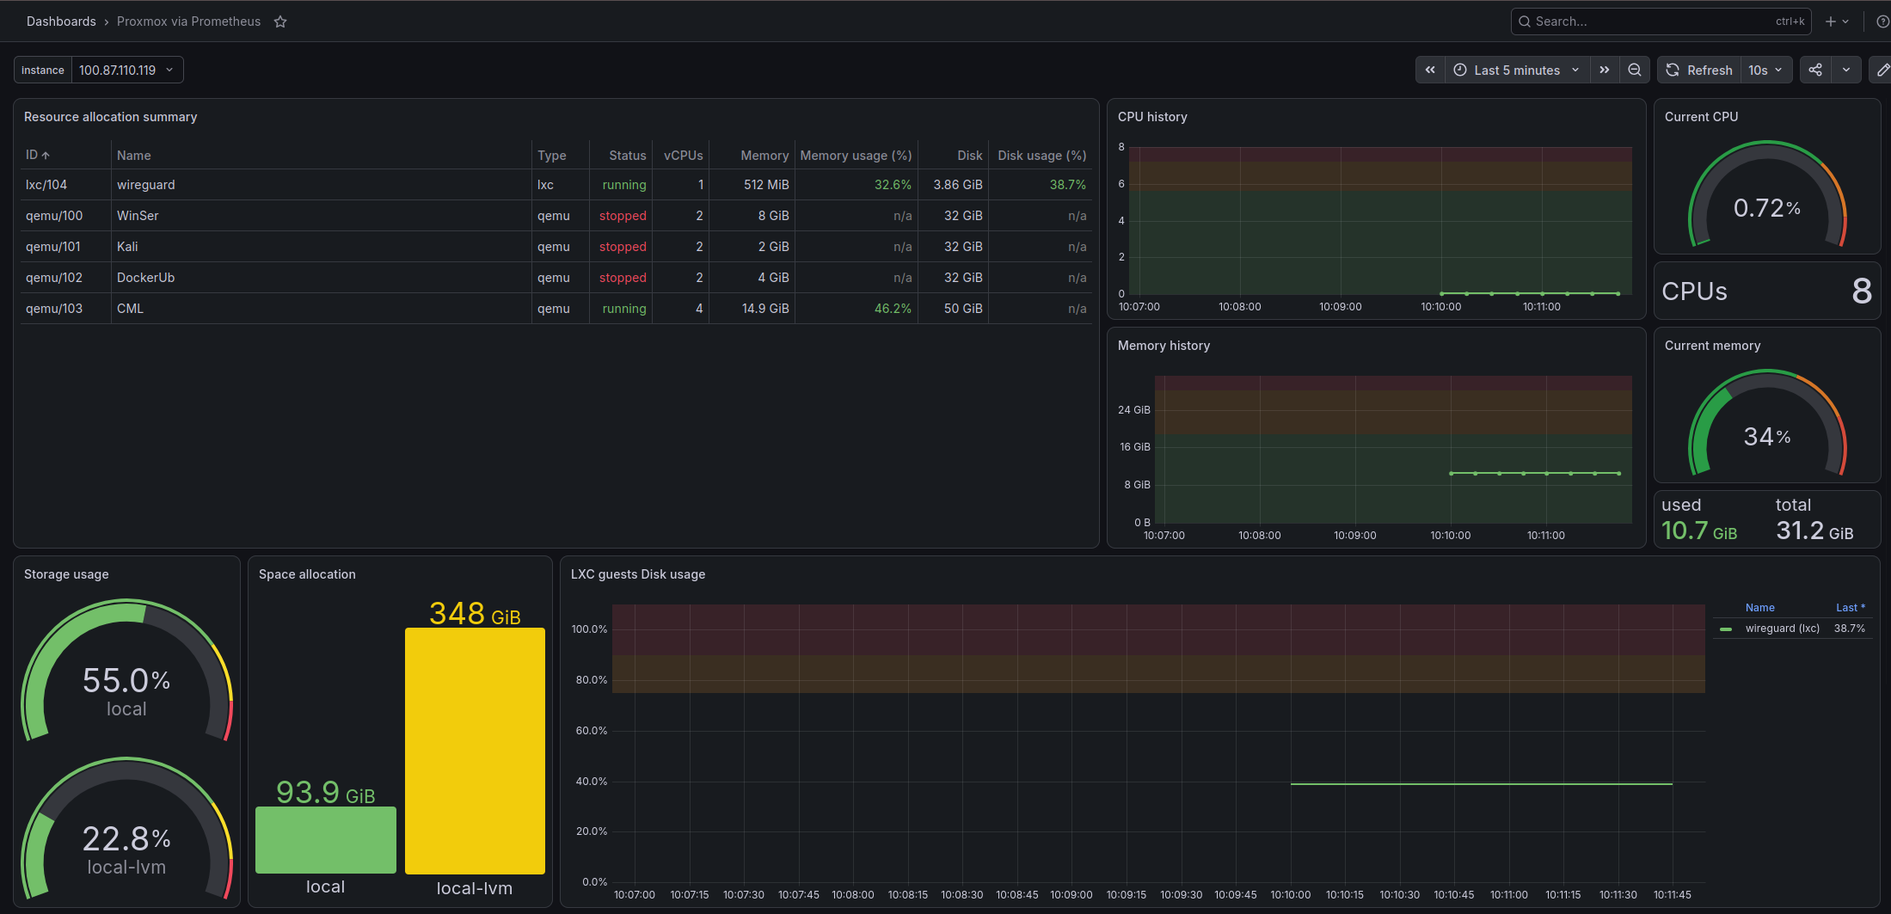
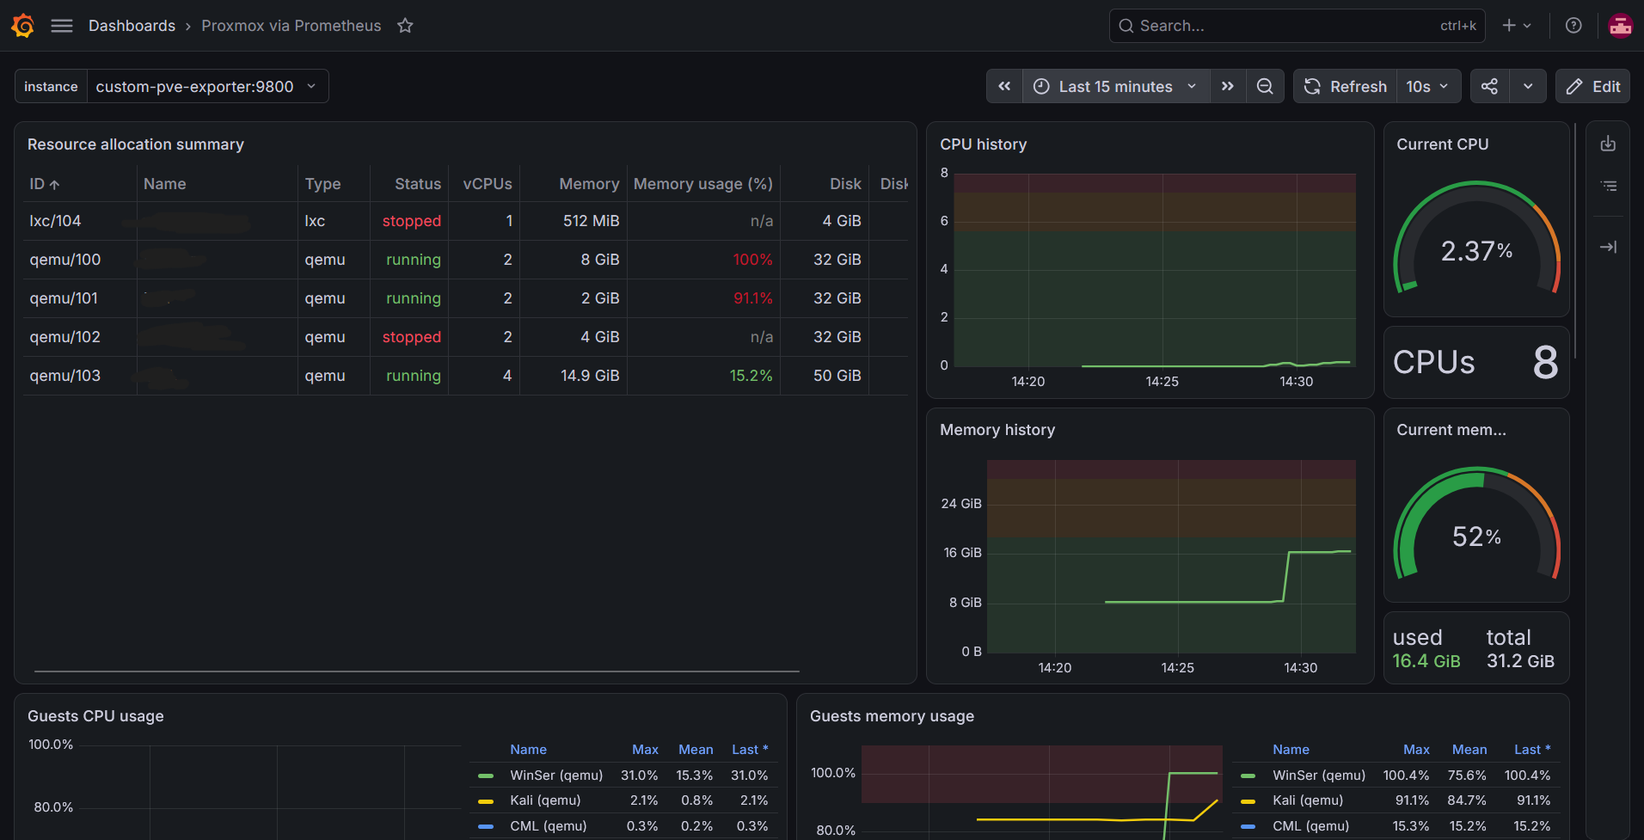
Added pve-exporter project to site, formatting changes, README update and images updates

diff --git a/projects/pve-exporter-api/index.html b/projects/pve-exporter-api/index.html
@@ -1,0 +1,262 @@
+<!DOCTYPE html>
+<html lang="en">
+
+<head>
+
+<!-- Basic -->
+<meta charset="utf-8">
+<meta http-equiv="X-UA-Compatible" content="IE=edge">
+
+<!-- Mobile Metas -->
+<meta name="viewport" content="width=device-width, initial-scale=1.0">
+
+<!-- Site Metas -->
+<title>Sean's Lab - Custom PVE Exporter and API</title>
+<meta name="description" content="Writing a custom Prometheus exporter for Proxmox VE and a custom API to query the metrics
+from the exporter to my website.">
+<meta name="author" content="Sean Widjaja">
+
+<!-- Site Icons -->
+<link rel="shortcut icon" href="/images/wifi-router.ico" type="image/x-icon" />
+<link rel="apple-touch-icon" href="/images/wifi-router.png">
+
+<!-- Bootstrap CSS -->
+<link rel="stylesheet" href="/css/bootstrap.min.css">
+<!-- Site CSS -->
+<link rel="stylesheet" href="/css/style.css">
+<!-- Responsive CSS -->
+<link rel="stylesheet" href="/css/responsive.css">
+<!-- Custom CSS -->
+<link rel="stylesheet" href="/css/custom.css">
+
+<script src="/js/modernizr.js"></script> <!-- Modernizr -->
+
+<!--[if lt IE 9]>
+    <script src="https://oss.maxcdn.com/libs/html5shiv/3.7.0/html5shiv.js"></script>
+    <script src="https://oss.maxcdn.com/libs/respond.js/1.4.2/respond.min.js"></script>
+    <![endif]-->
+
+</head>
+
+<body id="page-top">
+
+    <!-- LOADER -->
+    <div id="preloader">
+        <div class="loader">
+            <span></span>
+            <span></span>
+            <span></span>
+            <span></span>
+        </div>
+    </div><!-- end loader -->
+    <!-- END LOADER -->
+
+    <!-- Navigation -->
+    <nav class="navbar navbar-expand-lg navbar-dark fixed-top" id="mainNav">
+        <div class="container">
+            <a class="navbar-brand js-scroll-trigger" href="/">
+                <img class="img-fluid" src="/images/logo.png" alt="Sean's Lab home" />
+            </a>
+            <button class="navbar-toggler navbar-toggler-right" type="button" data-toggle="collapse"
+                data-target="#navbarResponsive" aria-controls="navbarResponsive" aria-expanded="false"
+                aria-label="Toggle navigation">
+                Menu
+                <i class="fa fa-bars"></i>
+            </button>
+            <div class="collapse navbar-collapse" id="navbarResponsive">
+                <ul class="navbar-nav text-uppercase ml-auto">
+                    <li class="nav-item">
+                        <a class="nav-link js-scroll-trigger" href="/">Home</a>
+                    </li>
+                    <li class="nav-item">
+                        <a class="nav-link js-scroll-trigger" href="/#about">About Me</a>
+                    </li>
+                    <li class="nav-item">
+                        <a class="nav-link js-scroll-trigger" href="/#certifications">Certifications</a>
+                    </li>
+                    <li class="nav-item">
+                        <a class="nav-link js-scroll-trigger" href="/projects/">Projects</a>
+                    </li>
+                    <li class="nav-item">
+                        <a class="nav-link js-scroll-trigger" href="/#contact">Contact Me</a>
+                    </li>
+                </ul>
+            </div>
+        </div>
+    </nav>
+
+    <div id="home" class="ct-header ct-header--slider ct-slick-custom-dots">
+        <div class="ct-slick-homepage" data-arrows="true" data-autoplay="false">
+            <div class="ct-header tablex item" data-background="/uploads/banner.jpg">
+                <div class="ct-u-display-tablex">
+                    <div class="inner">
+                        <div class="container">
+                            <div class="row">
+                                <div class="col-md-8 col-lg-8 slider-inner">
+                                    <h1 class="big animated">Custom PVE Exporter and API</h1>
+                                    <p class="animated">Custom Prometheus exporter for querying Proxmox VE metrics and API to bring those metrics to my website</p>
+                                </div>
+                            </div>
+                        </div>
+                    </div>
+                </div>
+            </div>
+        </div><!-- .ct-slick-homepage -->
+    </div><!-- .ct-header -->
+    
+    <div id="project-description" class="section lb">
+        <div class="container">
+            <div class="section-title text-center project-text">
+                <h3>Project Overview</h3>
+                <p>
+                    My <a href="/projects/home-lab-server/">Home Lab</a> page shows live metrics from my Proxmox server. However, there were problems with my 
+                    implementation, particularly from the kube-prometheus-stack running on my cluster. 
+                    This resulted in high CPU usage reaching 100% of the capacity on the node where prometheus was running. 
+                    I wrote a custom Proxmox VE exporter to query only the necessary metrics from my server, and I wrote a custom API
+                    that polls those metrics from my exporter, does some calculations, and returns the data to my website. This way,
+                    I have a more efficient way to get metrics from my server, and now having removed Prometheus on my cluster,
+                    it uses less CPU, down to around 20%, on my cluster node.
+                </p>
+            </div>
+        </div>
+        <div class="container">
+            <div class="section-title text-center project-text">
+                <h3>Objectives</h3>
+                <ul>
+                    <li>Write a Proxmox exporter that queries the Proxmox API with a read-only token</li>
+                    <li>Write an API to poll exporter metrics and return the data to the website</li>
+                    <li>Create CI/CD pipelines to automate deployment and test suites for the exporter and API</li>
+                    <li>Edit website to display the fetched metrics</li>
+                </ul>
+            </div>
+        </div>
+        <div class="container">
+            <div class="section-title text-center project-text">
+                <h3>The Process</h3>
+                <h4>Step 1: Custom Proxmox VE exporter</h4>
+                    <p>
+                        I wrote a custom Proxmox VE exporter in Python that queries the Proxmox API with a read-only token. 
+                        I could have used the community version of the Proxmox VE exporter, but it exports more than what I needed. I use this 
+                        exporter mainly to get a select few metrics from my server to display on my Grafana dashboard that I use locally. I decided to 
+                        use the same exporter and run it on my cluster. 
+                    </p>
+                <h4>Step 2: Write an API to get metrics from the exporter</h4>
+                    <p>
+                        In my previous setup, I was using kube-prometheus-stack installed with Helm package manager and node_exporter. 
+                        There were two problems with this. The first was that node_exporter was using the wrong source of data. Node_exporter only 
+                        sees the host machine running Proxmox, rather than the VMs that are running on it, so I was getting metrics about the server CPU and memory,
+                        but not the VMs running or storage pools. The second was that with the instance of kube-prometheus-stack, it was too heavy for my needs to
+                        show only a few metrics on my website. It was regularly using 100% of the CPU on the node where it was running. 
+                    </p>
+                    <p>
+                        Rather than querying the exporter directly from my website, I wrote a custom API that queries the exporter, calculates the CPU, 
+                        memory, and storage usage, and returns the data in JSON format. My website displays it on my Home lab page. 
+                        I wrote the API also with Python using FastAPI framework. It queries the exporter every 30 seconds, 
+                        calculates the CPU, memory, and storage usage, and returns the JSON from a cache, so visitor requests don't reach my lab. 
+                    </p>
+
+                <figure>
+                    <img src="/images/api-screenshot.png" class="img-fluid"
+                        alt="API screenshot showing my server's VMs, CPU, memory, and storage usage">
+                    <figcaption>
+                        API endpoint visualizing my Proxmox host's VMs, CPU, memory, and storage usage, collected by my custom PVE-exporter
+                    </figcaption>
+                </figure>
+                <h4>Step 3: CI pipelines and test suites</h4>
+                    <p>
+                        I created a CI pipeline for both the exporter and the API using GitHub Actions. On every push to main, each pipeline runs its test
+                        suite. If every test passes, it builds a Docker image and pushes it to Docker Hub, tagged with both the commit SHA and latest.
+                        Once a new image is published, I roll it out to my cluster, which pulls the latest image. The exporter's tests use a mocked Proxmox API
+                        to check that metrics are exported correctly, and that errors like failed logins, timeouts, server errors, or a bad response body are 
+                        reported as a failed scrape instead of crashing the exporter. The API's tests use a saved sample of the exporter's output to check that 
+                        it calculates the CPU, memory, and storage usage correctly, rejects incomplete or inconsistent data, and returns a 503 when no data is 
+                        available. The API's pipeline also runs its tests on pull requests, and Dependabot keeps its Docker base image up to date.
+                    </p>
+                <h4>Step 4: Edit website and display metrics</h4>
+                    <p>
+                        Once I got the exporter and API working on my cluster, I edited my website to display the new metrics from the API. Now what shows
+                        on the <a href="/projects/home-lab-server/">home lab</a> page at the bottom is the running VMs, CPU, memory, and storage usage. 
+                        This involved editing the frontend Nginx configuration to act as a reverse proxy, so the browser requests /summary from my own
+                        site and Nginx forwards it to the API inside the cluster. The API itself is never exposed to the internet. Some things that improved
+                        with this version is that the page makes 1 request every 30 seconds rather than 4 requests every 15 seconds, and the API does
+                        the calculations rather than the JavaScript on the page. 
+                    </p>
+            </div>
+        </div>
+        <div class="container">
+            <div class="section-title text-center project-text">
+                <h3>Challenges and Solutions</h3>
+                <h4>Issue 1: Kube-prometheus-stack pod and heavy CPU usage</h4>
+                    <p>
+                        A major improvement solved with this project. Now instead of kube-prometheus-stack scraping metrics from my Proxmox server, 
+                        the custom exporter does it. The API queries the exporter and calculates the CPU, memory, and storage usage. This way, 
+                        the API can return a single JSON response to my website every 30 seconds, rather than kube-prometheus-stack scraping metrics every
+                        30 seconds. This reduced the CPU usage on my cluster node from 100% to around 20%.
+                    </p>
+                <h4>Issue 2: Broken deploys</h4>
+                    <p>
+                        A recent change I made to my API is that I added calculations for storage usage. As I was writing the Nginx configuration and
+                        front-end JavaScript to display the new metrics, I realized I didn't write calculations for storage usage in the API. 
+                        I added the calculation to my API and I attempted to roll it out to my cluster, but it failed my unit tests in the CI pipeline
+                        because the test that checks the storage calculation was not updated. Because of the CI pipeline, it did not deploy the
+                        image to my Docker Hub. I edited the tests to account for the new calculation for storage and the pipeline passed.
+                        I rolled out the new image to my cluster and it worked as expected. 
+                    </p>
+            </div>
+        </div>
+        <div class="container">
+            <div class="section-title text-center project-text">
+                <h3>What's Next</h3>
+                <p>
+                    Currently, the rollout of my pve-exporter and API only works if I manually deploy them to my cluster. I 
+                    plan to create another workflow that automates that process. I would need to look into what happens if a rollout fails because 
+                    a new image is broken, and also how to roll back to a previous image if needed. 
+                </p>
+            </div>
+        </div>
+        <div class="container">
+            <div class="section-title text-center project-text">
+                <h3>What I Learned</h3>
+                <p>
+                    Just to show a few numbers from my server, I ran a full monitoring stack on my cluster with kube-prometheus-stack and node_exporter 
+                    when I did not need to. By watching my cluster, I figured out it was the kube-prometheus-stack pod that was using up my CPU wherever
+                    the pod was running on, and wherever it moved to next. Once I figured out that problem, I figured out a way to get the metrics I needed
+                    without having to run the monitoring stack by creating my own exporter and API.
+                </p>
+                <p>
+                    In addition to learning how to write an exporter and an API in a practical setting, I
+                    learned how to create my own CI pipelines to test, build, and publish. With that, I had to make decisions not just about
+                    how my application would work, but how to handle deployments. When I changed my API to add storage usage calculations, 
+                    I had to make sure that the tests were updated to account for the new calculation. Without the changes to the tests, my CI pipeline
+                    stops the deployment of the new image to Docker Hub. 
+                </p>
+            </div>
+        </div>
+    </div>
+
+    <div class="copyrights">
+        <div class="container">
+            <div class="footer-distributed">
+                <div class="footer-left">
+                    <p class="footer-company-name">&copy; 2026 Sean Widjaja &mdash; Design By :
+                        <a href="https://html.design/">html design</a>
+                    </p>
+                </div>
+            </div>
+        </div><!-- end container -->
+    </div><!-- end copyrights -->
+
+    <a href="#" id="scroll-to-top" class="dmtop global-radius"><i class="fa fa-angle-up"></i></a>
+
+    <!-- ALL JS FILES -->
+    <script src="/js/all.js"></script>
+    <script src="/js/jquery.easing.1.3.js"></script>
+    <script src="/js/parallaxie.js"></script>
+    <script src="/js/slick.min.js"></script>
+    <script src="/js/animated-slider.js"></script>
+    <script src="/js/jqBootstrapValidation.js"></script>
+    <script src="/js/custom.js"></script>
+
+</body>
+
+</html>

diff --git a/projects/home-lab-server/index.html b/projects/home-lab-server/index.html
@@ -161,15 +161,15 @@
                         On one of my host machines, I set up several Docker containers in a docker-compose file. These included images of Prometheus 
                         PVE Exporter to pull data from my server via API, Prometheus itself to store data, and Grafana to visualize the data in a readable format. 
                         Below is a screenshot of one of my Grafana dashboards that shows my server's metrics. In addition, at the bottom of this page, I have some of
-                        my server's metrics in real time queried via PromQL (Prometheus Query Language).
+                        my server's metrics in real time queried by a custom Proxmox VE exporter and a custom API.
                     </p>
 
                 <figure>
                     <img src="/images/Grafana.png" class="img-fluid"
                         alt="Grafana dashboard showing Proxmox CPU, memory, and storage usage over time">
                     <figcaption>
-                        A Grafana dashboard visualizing my Proxmox host's CPU, memory, and storage metrics,
-                        scraped by Prometheus from PVE exporter.
+                        A Grafana dashboard visualizing my Proxmox host's running VMs, CPU, and memory
+                        scraped by my custom PVE exporter. Machine names are omitted purposefully. 
                     </figcaption>
                 </figure>
                 <h4>Step 4: Automating server management with Ansible</h4>

diff --git a/projects/index.html b/projects/index.html
@@ -126,8 +126,16 @@ Kubernetes deployment on Linode, and Cisco CML lab practice.">
                 <h3><a href="/projects/cisco-labs-practice/">Cisco Modeling Labs practice</a></h3>
                 <p>Project Overview Once I passed the CCNA, I wanted to keep on practicing what I had learned and I wanted to try out network automation. 
                     Initially I continued doing labs on Cisco Packet Tracer, but Packet Tracer only simulates
-                    device behavior and supports only some IOS commands, which was fine for when I studied for the CCNA, but
-                    not for automation or production environments. I was told...
+                    device behavior and supports only some IOS commands, which...
+                </p>
+            </div>
+        </div>
+        <div class="container">
+            <div class="section-title text-center project-text">
+                <h3><a href="/projects/pve-exporter-api/">Custom PVE Exporter and API</a></h3>
+                <p>My Home Lab page shows live metrics from my Proxmox server. However, there were problems with my 
+                    implementation, particularly from the kube-prometheus-stack running on my cluster. 
+                    This resulted in high CPU usage...
                 </p>
             </div>
         </div>

diff --git a/projects/personal-website/index.html b/projects/personal-website/index.html
@@ -115,10 +115,9 @@ with a GitHub Actions deploy pipeline and live Prometheus metrics from my home l
                 </p>
                 <p>
                     The site is now an Nginx container running on a Kubernetes cluster in Linode, built and deployed by a GitHub Actions 
-                    pipeline on every push to main. A Prometheus instance in the cluster scrapes both the cluster itself and my Proxmox home
-                    lab server, which sits behind Tailscale rather than being exposed to the internet. The page you are on queries 
-                    Prometheus over its HTTP API and renders those numbers live — the results are on my 
-                    <a href="/projects/home-lab-server/">Home Lab Server</a> project page.
+                    pipeline on every push to main. I created a custom Proxmox VE exporter and a custom API that runs in my cluster
+                    that queries and renders those numbers live with the results on my <a href="/projects/home-lab-server/">Home Lab Server</a> 
+                    project page.
                 </p>
             </div>
         </div>

diff --git a/README.md b/README.md
@@ -18,13 +18,14 @@ the CI/CD pipeline, and how modern web infrastructure is maintained.
 | Layer          | Tools                                                    |
 | -------------- | -------------------------------------------------------- |
 | Frontend       | Static HTML/CSS/JS, Bootstrap, jQuery                    |
+| Backend        | Python, FastAPI, pytest                                  |
 | Web server     | nginx (port 8080)                                        |
 | Container      | Docker on GitHub Container Registry (GHCR)               |
 | Orchestration  | Kubernetes on Linode (LKE) — 2 replicas, rolling updates |
 | TLS / Ingress  | nginx ingress controller + cert-manager                  |
 | CI/CD          | GitHub Actions                                           |
 | IaC            | Terraform — LKE cluster + Firewall                       |
-| Monitoring     | Prometheus + Grafana in home lab, proxied live to website|
+| Monitoring     | Custom Proxmox VE exporter and API in cluster            |
 | Networking     | Tailscale between cluster and home lab                   |
 
 ## Highlights
@@ -32,10 +33,12 @@ the CI/CD pipeline, and how modern web infrastructure is maintained.
 - **Zero-downtime deploys.** The Deployment uses `maxUnavailable: 0`, so a pod
   that doesn't pass its readiness probe stalls the rollout and fails the CI run
   while the old pods keep serving. A broken deploy won't make the site fail.
-- **Live home-lab metrics.** The Home Lab page shows real Proxmox CPU, memory,
-  and filesystem stats pulled from Prometheus. The browser never sees PromQL —
-  nginx maps a fixed set of metric keys to queries and rejects anything else,
-  keeping Prometheus reachable only over the tailnet.
+- **Live home-lab metrics.** The Home Lab page shows running VMs, CPU, memory,
+  and storage from my Proxmox server. A custom Python exporter queries the Proxmox
+  API over Tailscale with a read-only token, and a FastAPI service polls it every
+  30 seconds and serves one cached JSON summary at /summary. Visitor traffic never
+  reaches the home lab, and replacing the in-cluster kube-prometheus-stack took node
+  CPU usage from 100% to about 20%.
 - **Infrastructure as Code.** The LKE cluster is managed by Terraform, imported from the
   currently running cluster rather than rebuilt. A default-deny firewall is set up 
   on the nodes, allowing only internal cluster traffic while public access flows 
@@ -50,9 +53,10 @@ the CI/CD pipeline, and how modern web infrastructure is maintained.
 ├── projects/                                Projects
 │   ├── personal-website/
 │   ├── home-lab-server/
-│   └── cisco-labs-practice/
+│   ├── cisco-labs-practice/
+│   └── pve-exporter-api/
 ├── Dockerfile                               nginx image build
-├── nginx.conf                               Server config + Prometheus proxy
+├── nginx.conf                               Server config + /summary API proxy
 ├── terraform/                               Infrastructure as code
 │   ├── provider.tf                          Provider + versions
 │   ├── main.tf                              LKE cluster
@@ -63,7 +67,9 @@ the CI/CD pipeline, and how modern web infrastructure is maintained.
 │   ├── 02-service.yaml
 │   ├── 03-clusterissuer.yaml
 │   ├── 04-ingress.yaml
-│   └── ...
+│   ├── 05-egress-pve.yaml
+│   ├── 06-pve-exporter.yaml
+│   └── 07-homelab-api.yaml
 └── .github/workflows/deploy.yml             CI/CD pipeline
 ```
 
@@ -71,11 +77,14 @@ the CI/CD pipeline, and how modern web infrastructure is maintained.
 
 Every push to main triggers `.github/workflows/deploy.yml`, which builds the
 image, pushes it to GHCR, applies the manifests to LKE, and waits for the rollout 
-to succeed before the run passes. 
+to succeed before the run passes. The custom exporter and API images are built in
+their own repo pipelines and are rolled out manually. 
 
 ## Projects featured on the site
 
-- **Personal Website** — this repo: static-to-Kubernetes migration.
+- **Personal Website** — This repo: static-to-Kubernetes migration.
 - **Home Lab Server** — Proxmox virtualization, Windows Server AD/DHCP,
   Prometheus/Grafana monitoring, Ansible automation.
-- **Cisco Modeling Labs** — network automation practice beyond Packet Tracer.
+- **Cisco Modeling Labs** — Network automation practice beyond Packet Tracer.
+- **Custom PVE-Exporter + API** — Custom exporter and API for fetching metrics 
+  from my server
